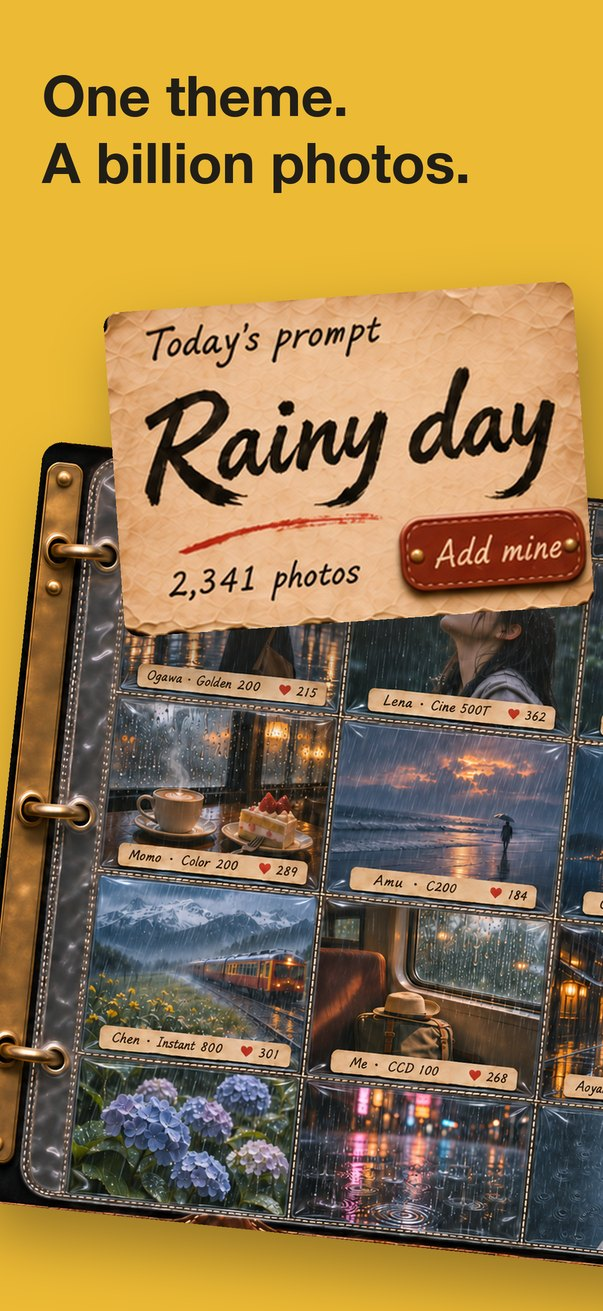
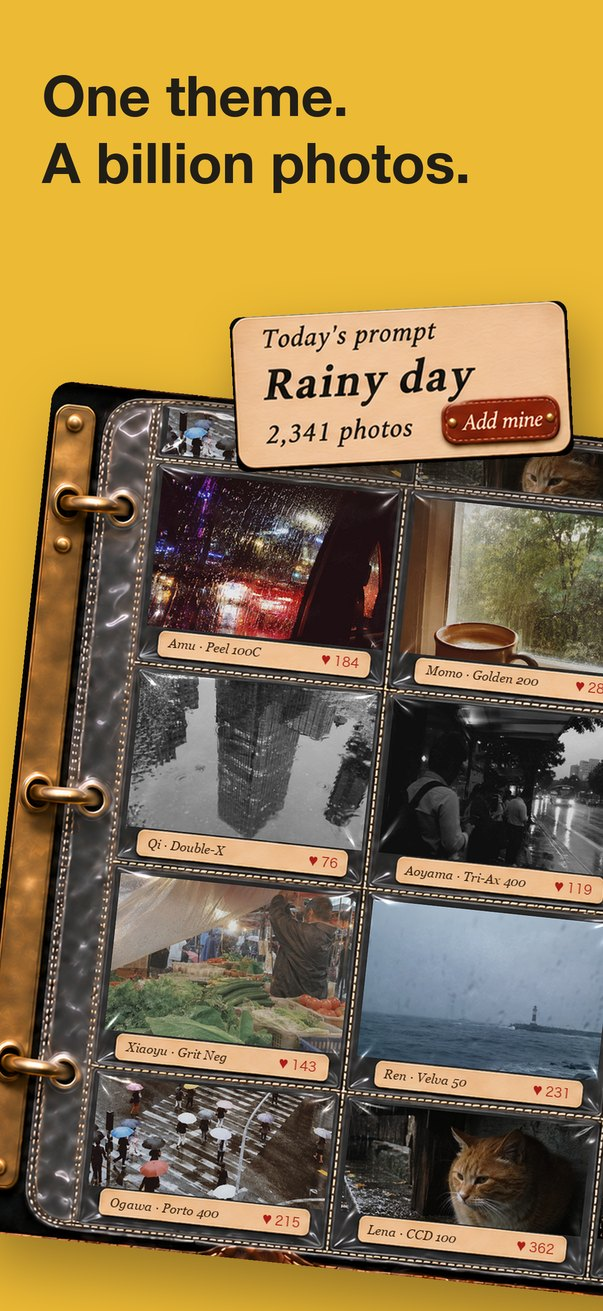
Screenshots page 3: a restrained prompt card; the album filled with twelve different rainy-day pictures (each its own shot, each through a different Koco film) behind the sleeves' shine (tools/club_fill.py)

diff --git a/design/appstore/duo/index.html b/design/appstore/duo/index.html
@@ -24,10 +24,13 @@ body.en .zh,body:not(.en) .en{display:none}
 .tbl{overflow-x:auto}table{border-collapse:collapse;min-width:520px;font-size:14px}td,th{border-bottom:1px solid var(--line);padding:8px;text-align:left;vertical-align:top}
 </style>
 <main>
-<h1>按你的意见改的四处</h1>
+<h1>第 3 页再改：题签克制、照片各不相同</h1>
+<p class="sub">题签缩小，换成和页面其它标签一样的平整牛皮纸和普通字体（不再是毛笔大字）；相册里 12 张雨天照片是 GPT 分三次生成的“不同人、不同手机、不同城市”的原片，再各套一卷不同的 Koco 胶卷（Porto、Tri-Ax、Cine 500T、拍立得、CCD、Chroma、Golden、Peel、Nature、Double-X、Velva、Grit Neg），放进空插袋里，签上写作者 · 胶卷 · 红心。中英两版。</p>
+<div class="row" style="grid-template-columns:repeat(auto-fill,minmax(160px,1fr));max-width:420px"><figure><img src="s9_3_zh.jpg" alt="第3页中文"><figcaption>中文</figcaption></figure><figure><img src="s9_3_en.jpg" alt="第3页英文"><figcaption>English</figcaption></figure></div>
+<h2>按你的意见改的四处</h2>
 <h2>1 · 第 3 页“同一个主题，亿万张照片”（中英都做了）</h2>
 <p class="sub">主题放到最醒目的位置：一张大题签“今日题目 · 雨天 / 已有 2,341 张 / 投一张”压在相册上；相册里每一张都是雨天的照片（GPT 按“雨天”重画了整页社区，英文版是同一张图换成英文）。</p>
-<div class="row" style="grid-template-columns:repeat(auto-fill,minmax(160px,1fr));max-width:420px"><figure><img src="s9_3_zh.jpg" alt="第3页中文"><figcaption>中文</figcaption></figure><figure><img src="s9_3_en.jpg" alt="第3页英文"><figcaption>English</figcaption></figure></figure></div>
+<div class="row" style="grid-template-columns:repeat(auto-fill,minmax(160px,1fr));max-width:420px"><figure><img src="s9_3_zh.jpg" alt="第3页中文"><figcaption>中文</figcaption></figure><figure><img src="s9_3_en.jpg" alt="第3页英文"><figcaption>English</figcaption></figure></div>
 <h2>2 · 点开一张照片：端正地从插袋里抽出来</h2>
 <p class="sub">不再斜放：照片端正、下半截还插在透明插袋口里，上半截抽出放大，后面的相册变暗。下面一张牛皮纸卡片：作者、胶卷、题目、日期；红心（数字）、留言气泡（数字）、“同款胶卷”；三条留言和“说点什么…”输入条、纸飞机发送。左上“放回”。</p>
 <img src="community_detail_v2.jpg" alt="照片详情" style="width:100%;border-radius:8px">

diff --git a/tools/club_fill.py b/tools/club_fill.py
@@ -1,0 +1,59 @@
+"""Fills the empty club page (GPT art, design/community/community_empty_<lang>.png)
+with real-looking member photos: rainy-day pictures (GPT, each its own shot)
+each rendered through a different Koco film (design/community/rain), placed
+into the sleeve pockets behind the plastic's shine, and their kraft labels
+written (who · film · likes). Compositing only.
+
+    lut-test/venv-sfl/bin/python tools/club_fill.py <zh|en> <out.png>
+"""
+import sys, os, numpy as np
+from PIL import Image, ImageDraw, ImageFont
+lang, out = sys.argv[1], sys.argv[2]
+base = Image.open(f"design/community/community_empty_{lang}.png").convert("RGB")
+W0, H0 = base.size; k = W0 / 1495
+cols = [(540, 828), (840, 1133), (1145, 1452)]
+rows = [(36, 96, None), (110, 300, 300), (348, 538, 538), (588, 780, 780), (828, 965, 965)]
+labels_x = [(560, 810), (866, 1112), (1176, 1437)]
+films = {"portra400": "Porto 400", "trix400": "Tri-Ax 400", "cine500t": "Cine 500T", "instax": "Instant 800",
+         "ccd": "CCD 100", "kodachrome64": "Chroma 64", "gold200": "Golden 200", "fp100c": "Peel 100C",
+         "natura1600": "Nature 1600", "doublex": "Double-X", "velvia50": "Velva 50", "grneg": "Grit Neg"}
+names_zh = ["小川", "Lena", "竹子", "阿木", "Momo", "老陈", "琦", "青山", "Kai", "小鱼", "Ren", "我"]
+names_en = ["Ogawa", "Lena", "Zhuzi", "Amu", "Momo", "Chen", "Qi", "Aoyama", "Kai", "Xiaoyu", "Ren", "Me"]
+likes = [215, 362, 97, 184, 289, 301, 76, 119, 58, 143, 231, 268]
+photos = sorted(os.listdir("design/community/rain"))
+order = [0, 4, 2, 7, 6, 3, 9, 1, 5, 11, 10, 8]   # spread the looks out
+arr = np.asarray(base).astype(np.float32)
+img = base.copy()
+d = ImageDraw.Draw(img)
+fz = ImageFont.truetype("/System/Library/Fonts/Hiragino Sans GB.ttc", round(15 * k), index=0)
+fl = ImageFont.truetype("/System/Library/Fonts/Supplemental/Georgia Italic.ttf", round(15 * k)) if os.path.exists("/System/Library/Fonts/Supplemental/Georgia Italic.ttf") else fz
+fh = ImageFont.truetype("/System/Library/Fonts/Supplemental/Arial Unicode.ttf", round(15 * k))
+n = 0
+for ri, (y0, y1, ly) in enumerate(rows):
+    for ci, (x0, x1) in enumerate(cols):
+        f = photos[order[n % len(photos)]]; fid = f[3:-4]
+        box = (round((x0 + 4) * k), round((y0 + 4) * k), round((x1 - 4) * k), round((y1 - 2) * k))
+        bw, bh = box[2] - box[0], box[3] - box[1]
+        ph = Image.open(f"design/community/rain/{f}").convert("RGB")
+        s = max(bw / ph.width, bh / ph.height)
+        ph = ph.resize((round(ph.width * s), round(ph.height * s)), Image.LANCZOS)
+        ph = ph.crop(((ph.width - bw) // 2, (ph.height - bh) // 2, (ph.width - bw) // 2 + bw, (ph.height - bh) // 2 + bh))
+        # The plastic's shine over it: what is brighter than the empty pocket's dark.
+        pocket = arr[box[1]:box[3], box[0]:box[2]]
+        lum = pocket.mean(-1, keepdims=True)
+        shine = np.clip(lum - np.median(lum), 0, None) * 0.9
+        p = np.asarray(ph).astype(np.float32) * 0.93 + shine
+        img.paste(Image.fromarray(np.clip(p, 0, 255).astype("uint8")), box[:2])
+        if ly is not None:
+            lx0, lx1 = labels_x[ci]
+            who = (names_zh if lang == "zh" else names_en)[n % 12]
+            text = f"{who} · {films[fid]}"
+            cy = round((ly + 16) * k)
+            d.text((round((lx0 + 12) * k), cy), text, font=fz if lang == "zh" else fl, fill=(60, 38, 22), anchor="lm")
+            num = str(likes[n % 12])
+            d.text((round((lx1 - 12) * k), cy), num, font=fz, fill=(170, 30, 25), anchor="rm")
+            nw = d.textlength(num, font=fz)
+            d.text((round((lx1 - 12) * k - nw - 4 * k), cy), "♥", font=fh, fill=(170, 30, 25), anchor="rm")
+        n += 1
+img.save(out)
+print("ok", out)

diff --git a/tools/appstore_v6.py b/tools/appstore_v6.py
@@ -529,12 +529,13 @@ def z3_club():
     im = ground("yellow"); headline(im, 53)
     # The album: everyone's rainy-day photos, large, running off the bottom.
     album = crop_rel(img, (0.27, 0.02, 0.985, 0.98))
-    album = album.resize((round(W * 1.34), round(album.height * W * 1.34 / album.width)), Image.LANCZOS)
-    place(im, album, (round(-W * 0.06), 880), angle=-6, radius=40, shadow=60)
+    album = album.resize((round(W * 1.5), round(album.height * W * 1.5 / album.width)), Image.LANCZOS)
+    place(im, album, (round(-W * 0.06), 760), angle=-6, radius=40, shadow=60)
     # The prompt card, cut from the same screen, laid on top: what they share.
-    card_ = crop_rel(img, (0.027, 0.202, 0.265, 0.436))
-    card_ = card_.resize((round(W * 0.78), round(card_.height * W * 0.78 / card_.width)), Image.LANCZOS)
-    place(im, card_, (round(W * 0.17), 560), angle=4, radius=30, shadow=60)
+    # The prompt card as it is on the page (restrained: user 11/24), a little larger.
+    card_ = crop_rel(img, (0.028, 0.203, 0.263, 0.356))
+    card_ = card_.resize((round(W * 0.56), round(card_.height * W * 0.56 / card_.width)), Image.LANCZOS)
+    place(im, card_, (round(W * 0.38), 600), angle=3, radius=22, shadow=50)
     return im
 
 def z4_bag():
